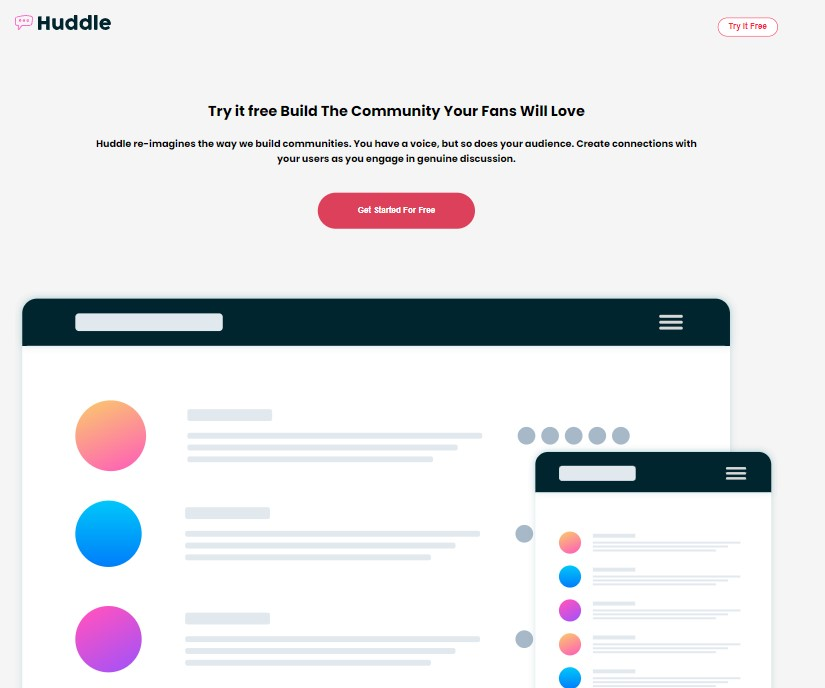
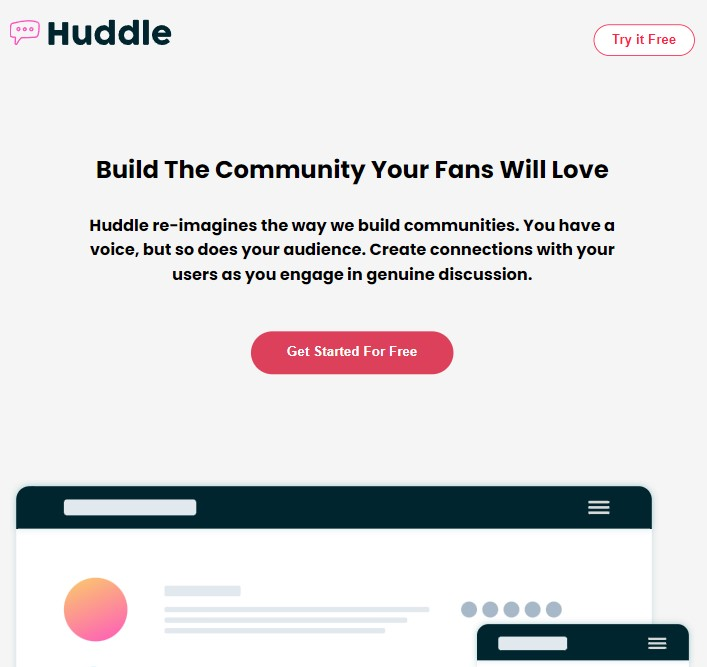
project 14 on go

diff --git a/huddle-landing-page-with-curved-sections-master/index.html b/huddle-landing-page-with-curved-sections-master/index.html
@@ -28,11 +28,11 @@
     <header>
       <img src="images/logo.svg" alt="logo" id="logo" />
       <button class="btn" id="top_btn">Try it Free</button>
-    </header>
+    </header> 
     <main>
       <section id="top">
         <h2 class="hero_text">
-          Try it free Build The Community Your Fans Will Love
+          Build The Community Your Fans Will Love
         </h2>
         <p id="para">
           Huddle re-imagines the way we build communities. You have a voice, but

diff --git a/huddle-landing-page-with-curved-sections-master/index.css b/huddle-landing-page-with-curved-sections-master/index.css
@@ -123,13 +123,9 @@ main{
   font-weight: 100;
 }
 footer{
-  width: 100vw;
   color:white;
   background-color: hsl(192, 100%, 9%);
-  background-image: url("images/bg-section-bottom-desktop-2.svg");
-  background-repeat: no-repeat;
-  background-size: 100%;
-  background-position: top;
+  
 }
 .footer-text{
   display: flex;
@@ -181,7 +177,6 @@ input, #subscribe{
   gap:1rem;
   max-width: 17rem;
 }
-
 
 
 @media only screen and (max-width:590px){
